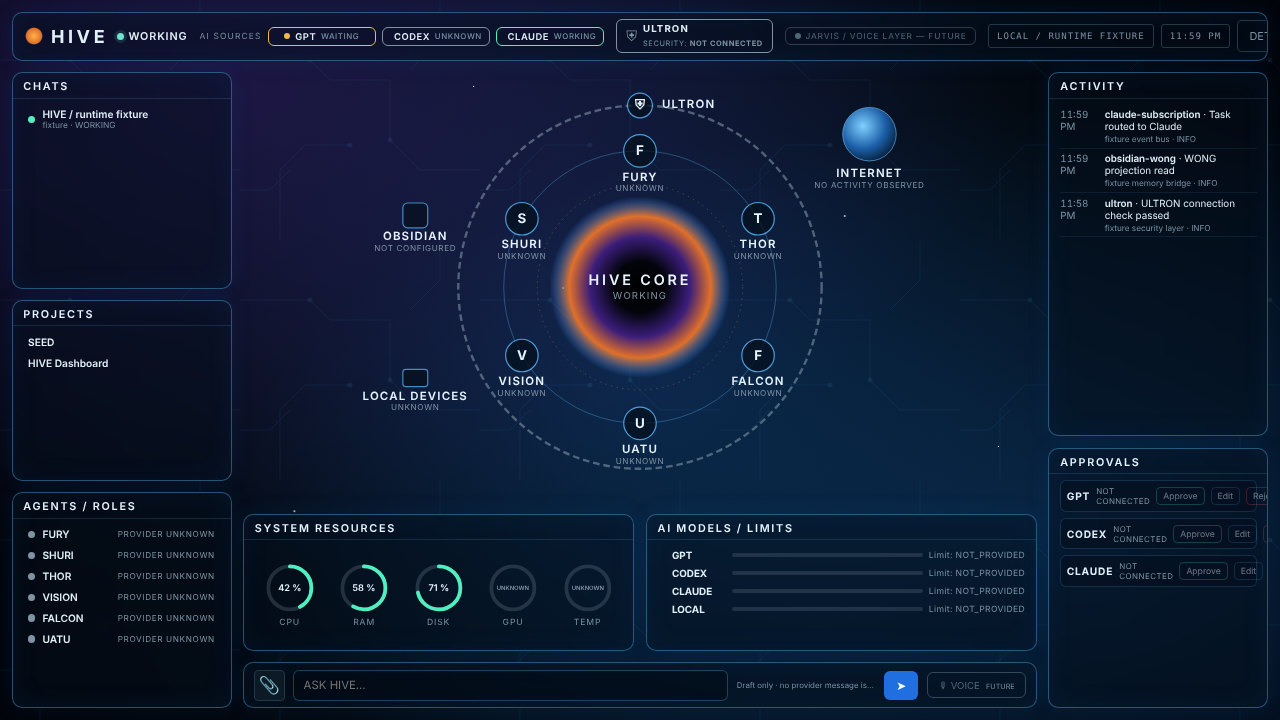
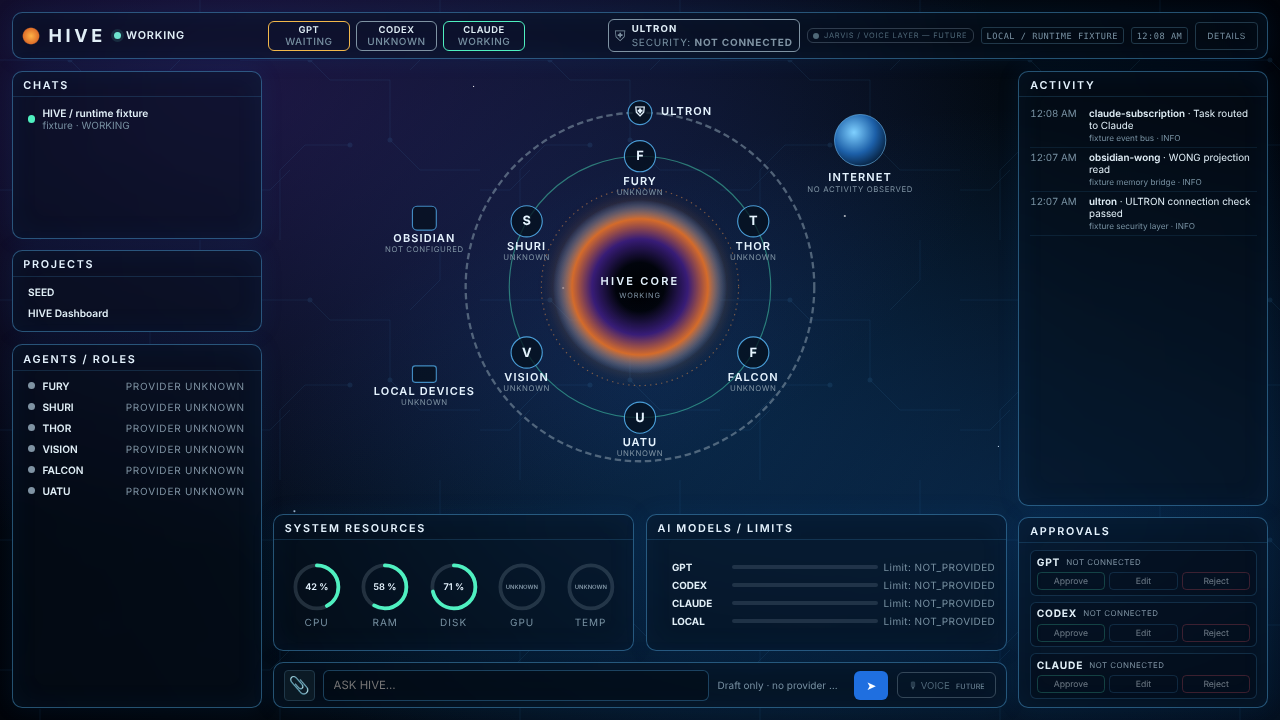
P0.1 review fixes: top bar/approvals/chips overflow, CORE size, ACCEPTANCE.md, stronger E2E
Claude-Session: https://claude.ai/code/session_01H3kenukuoJUFG5vRsMZSQa

diff --git a/app.js b/app.js
@@ -350,7 +350,7 @@ function renderShell(snapshot){
   if(pr) pr.innerHTML=projects.length?projects.slice(0,8).map(item=>`<div class="rail-row"><div class="grow"><strong>${esc(item.name||item.id)}</strong></div></div>`).join(''):'<div class="empty-state compact"><strong>NOT PROVIDED</strong><small>HIVE Core returned no project catalog.</small></div>';
   const roster=$('#agent-roster'); if(roster) roster.innerHTML=SHELL_ROLES.map(role=>`<div class="rail-row"><i class="dot"></i><div class="grow"><strong>${role}</strong></div><span class="state">PROVIDER UNKNOWN</span></div>`).join('');
   const act=$('#activity-rows'); if(act) act.innerHTML=(snapshot.events||[]).filter(e=>e&&e.timestamp).length?snapshot.events.filter(e=>e&&e.timestamp).slice(0,8).map(e=>`<div class="act-row"><time>${esc(isoTime(e.timestamp))}</time><div><b>${esc(e.component_id||'role n/a')}</b> · ${esc(e.title||e.kind||'event')}<br><small>${esc(e.source||'source unknown')} · ${esc(stateLabel(e.severity||'unknown'))}</small></div></div>`).join(''):'<div class="empty-state compact"><strong>Nothing observed</strong><small>Rows appear only from timestamped events.</small></div>';
-  const ap=$('#approval-rows'); if(ap) ap.innerHTML=SHELL_PROVIDERS.map(([,label])=>`<div class="approval-row"><strong>${label}</strong><span class="ap-state">NOT CONNECTED</span><button class="ap-btn approve" disabled>Approve</button><button class="ap-btn" disabled>Edit</button><button class="ap-btn reject" disabled>Reject</button></div>`).join('');
+  const ap=$('#approval-rows'); if(ap) ap.innerHTML=SHELL_PROVIDERS.map(([,label])=>`<div class="approval-row"><strong>${label}</strong><span class="ap-state">NOT CONNECTED</span><span class="ap-actions"><button class="ap-btn approve" disabled>Approve</button><button class="ap-btn" disabled>Edit</button><button class="ap-btn reject" disabled>Reject</button></span></div>`).join('');
   const g=$('#resource-gauges'); if(g) g.innerHTML=gaugeMarkup('CPU',snapshot.metrics.cpu)+gaugeMarkup('RAM',snapshot.metrics.memory)+gaugeMarkup('DISK',snapshot.metrics.disk)+gaugeMarkup('GPU',null)+gaugeMarkup('TEMP',null);
   const lim=$('#limit-rows'); if(lim) lim.innerHTML=[...SHELL_PROVIDERS.map(([k,l])=>[k,l]),['local','LOCAL']].map(([k,l])=>{ const o=k==='local'?{tone:'unknown'}:providerObservation(snapshot,k); return `<div class="limit-row"><i class="dot ${o.tone}"></i><strong>${l}</strong><div class="bar"></div><span class="v">Limit: NOT_PROVIDED</span></div>`; }).join('');
 }

diff --git a/styles.css b/styles.css
@@ -102,3 +102,24 @@ body{overflow:hidden;min-height:0;height:100vh;background:radial-gradient(ellips
 .console-close{position:fixed;top:calc(var(--gap) + 10px);right:calc(var(--gap) + 16px);z-index:61}
 .console-overlay .app-shell{min-height:100%}.console-overlay .sidebar{min-height:100%}
 @media (prefers-reduced-motion:reduce){*{animation:none!important;transition:none!important}}
+
+/* ---- P0.1 review fixes (UX review + own overflow check at 1280x720) ---- */
+:root{--rail:clamp(250px,17vw,520px)}
+.topbar-hive{gap:.6rem;padding:.55rem .8rem}
+.source-chip{width:8rem}
+@media (max-width:1500px){.tb-label{display:none}.source-chip{width:8rem;padding:.25rem .3rem}.tb-ultron{padding:.2rem .5rem}.tb-jarvis{font-size:.62rem;padding:.2rem .45rem}.topbar-hive .top-tag{font-size:.62rem;padding:.2rem .4rem}}
+.topbar-hive>.tb-actions{flex:0 0 auto}
+.tb-label,.rail-row small,.rail-row .state,.gauge label,.limit-row span.v,.ap-state,.composer-status,.source-chip em,.tb-ultron small{font-size:max(.7rem,10px)}
+.act-row{grid-template-columns:4.4rem 1fr}.act-row time{white-space:nowrap}
+.approval-row{flex-wrap:wrap;gap:.35rem .5rem}.approval-row strong{width:auto;flex:0 0 auto}.approval-row .ap-state{flex:1 1 0;min-width:0;overflow:hidden;text-overflow:ellipsis;white-space:nowrap}
+.ap-actions{flex:1 0 100%;display:flex;gap:.35rem}.ap-actions .ap-btn{flex:1 1 0;min-width:0}
+.rail>.hive-panel{flex:0 1 auto}#panel-chats,#panel-activity{flex:1 1 0}
+.res-row .hive-panel{height:clamp(120px,19vh,260px)}
+.res-row .hp-body{display:flex;flex-direction:column;justify-content:center}.res-row .hp-body.gauges{flex-direction:row;justify-content:space-around}
+.core-stage{padding:.4rem 0}
+.core-vortex{opacity:.55;filter:drop-shadow(0 0 22px rgba(255,150,60,.55))}.core-stage[data-tone="ok"] .core-vortex{opacity:.95}
+.core-ring{stroke:rgba(79,240,192,.45);stroke-width:2.5}.ring-inner{stroke:rgba(255,160,70,.45)}
+.core-center-title{font-size:24px}.core-center-state{font-size:16px}
+.source-chip{flex-direction:column;gap:0;line-height:1.2;width:6.8rem;padding:.2rem .4rem}.source-chip i{display:none}
+@media (max-width:1500px){.source-chip{width:6.8rem;padding:.2rem .3rem}}
+.topbar-hive .top-tag,.topbar-hive .tb-actions .button{font-size:.72rem;letter-spacing:.06em}

diff --git a/docs/hive/ACCEPTANCE.md b/docs/hive/ACCEPTANCE.md
@@ -1,0 +1,135 @@
+# HIVE Dashboard - Acceptance Checklist
+
+Source: `HIVE_DASHBOARD_CLAUDE_HANDOFF.md` section 15 (items 1-16), with derived sub-items from sections 5-12 and 14.
+Branch: `hive/dashboard-v1`. Status values: `NOT_RUN`, `PASS_AUTOMATED`, `PASS_MANUAL`, `FAIL`.
+Planned tests (not yet existing) are marked `(planned)`. A status of PASS_AUTOMATED is used only where the named file's assertions actually cover the requirement.
+
+Existing test files: `tests/e2e/shell.e2e.mjs`, `tests/ui_contract.test.mjs`, `tests/test_server.py`, `tests/test_fixture_server.py`.
+
+## A. Spec section 15 items
+
+| ID | Requirement | Phase | Verification | Status |
+|----|-------------|-------|--------------|--------|
+| S15.1 | Dashboard visually matches the supplied reference direction (docs/assets/hive-dashboard-target.png, hive-core-reference.png) | P0.1 | MANUAL: compare 1920x1080 screenshot (docs/hive/screenshots/shell-1920x1080.png) with reference on the Windows PC; e2e takes screenshots but asserts no visual match | NOT_RUN |
+| S15.2 | Panels have visible empty space and never touch | P0.1 | tests/e2e/shell.e2e.mjs `P0.1 shell @ WxH` (pairwise overlap + min gutter + edge margin, 10 boxes) | PASS_AUTOMATED |
+| S15.3 | Layout adapts at 1280x720, 1920x1080, 2560x1440 (no page scroll) | P0.1 | tests/e2e/shell.e2e.mjs (3 resolution tests, scroll check) | PASS_AUTOMATED |
+| S15.4 | CORE remains centered and is the primary animation | P0.1/P0.2 | Centering: tests/e2e/shell.e2e.mjs (horizontal +-2px only). "Primary animation": tests/core_visual.e2e.mjs (planned) + MANUAL | NOT_RUN |
+| S15.5 | ULTRON has a static agent-style icon and a state-changing security ring | P0.2 | tests/core_visual.e2e.mjs (planned): icon node present, ring class changes per state; MANUAL visual check | NOT_RUN |
+| S15.6 | GPT and Claude (and Codex) have equal architectural and visual weight | P0.1/P0.2 | Chip width equality: tests/e2e/shell.e2e.mjs (covers top-bar chips only); node size/provider parity: tests/core_state.test.mjs (planned) | NOT_RUN |
+| S15.7 | Agents move only in response to logical interactions or observed state transitions | P0.2 | tests/core_movement.test.mjs (planned) | NOT_RUN |
+| S15.8 | Ambient outer animation is sparse, slow, visually subordinate | P0.2 | tests/core_visual.e2e.mjs (planned: ambient opacity/duration bounds, distinct class from event pulses) + MANUAL | NOT_RUN |
+| S15.9 | No activity invented when telemetry is missing (UNKNOWN, never WORKING) | P0.2 | tests/core_state.test.mjs (planned); shell.e2e.mjs covers only ULTRON "NOT CONNECTED" and NOT_PROVIDED limits | NOT_RUN |
+| S15.10 | Chat attachments and send states work honestly | P0.3 | tests/chat.test.mjs + tests/e2e/chat.e2e.mjs (planned) | NOT_RUN |
+| S15.11 | Activity and Approvals readable and sanitized | P0.3 | tests/activity_sanitize.test.mjs (planned) + MANUAL readability at 1280x720 | NOT_RUN |
+| S15.12 | Hardware and model values show UNKNOWN when unavailable | P1.1 | tests/test_server.py (system metrics, planned cases); shell.e2e.mjs asserts NOT_PROVIDED in limits panel only (not hardware) | NOT_RUN |
+| S15.13 | Obsidian/WONG authority boundaries preserved (no vault path guess, no write unless connector enabled) | P1.2 | tests/test_server.py (planned cases) + tests/ui_contract.test.mjs | NOT_RUN |
+| S15.14 | EVOLVE changes only an isolated branch and produces evidence (diff, test result, backup) | P1.3 | tests/test_evolve.py (planned) | NOT_RUN |
+| S15.15 | Existing tests remain passing or regressions are reported | All | Run `node --test tests/ui_contract.test.mjs`, `python -m pytest tests/test_server.py tests/test_fixture_server.py`, `node --test tests/e2e/shell.e2e.mjs`; record exact results | NOT_RUN |
+| S15.16 | No production, WONG, ROCKET, deployment, or release state modified | All | MANUAL: `git diff --stat` shows only dashboard checkout files; tests/test_fixture_server.py (fixture server has no write routes) | NOT_RUN |
+
+## B. Derived sub-items
+
+### P0.1 Visual shell
+
+| ID | Requirement | Phase | Verification | Status |
+|----|-------------|-------|--------------|--------|
+| P0.1.1 | At 1280x720 no panel overlap, gutters >=10px, edge margin >=10px | P0.1 | tests/e2e/shell.e2e.mjs `P0.1 shell @ 1280x720` | PASS_AUTOMATED |
+| P0.1.2 | At 1920x1080 no overlap, gutters >=16px | P0.1 | tests/e2e/shell.e2e.mjs `P0.1 shell @ 1920x1080` | PASS_AUTOMATED |
+| P0.1.3 | At 2560x1440 no overlap, gutters >=20px | P0.1 | tests/e2e/shell.e2e.mjs `P0.1 shell @ 2560x1440` | PASS_AUTOMATED |
+| P0.1.4 | CORE art centered within +-2px at all three resolutions | P0.1 | tests/e2e/shell.e2e.mjs (horizontal axis only; vertical not asserted) | PASS_AUTOMATED |
+| P0.1.5 | No visible DONE, LOGS, or version text | P0.1 | tests/e2e/shell.e2e.mjs (innerText regex) | PASS_AUTOMATED |
+| P0.1.6 | Required shell labels present (HIVE, GPT, CODEX, CLAUDE, ULTRON, JARVIS / VOICE LAYER, CHATS, PROJECTS, AGENTS / ROLES, ACTIVITY, APPROVALS, SYSTEM RESOURCES, AI MODELS / LIMITS, VOICE) | P0.1 | tests/e2e/shell.e2e.mjs asserts the listed labels (PROJECTS and ULTRON included); ASK HIVE input, attach and send buttons are NOT asserted | NOT_RUN |
+| P0.1.7 | Panel material rgba(4,16,29,0.46), blur(12px), border rgba(90,190,255,0.40) | P0.1 | tests/e2e/shell.e2e.mjs `panel material...` (checks #panel-chats only) | PASS_AUTOMATED |
+| P0.1.8 | Shell has no page errors on load | P0.1 | tests/e2e/shell.e2e.mjs (pageerror collection) | PASS_AUTOMATED |
+| P0.1.9 | VOICE button disabled; JARVIS indicator inactive; no waveform | P0.1 | tests/e2e/shell.e2e.mjs (disabled + `.inactive`; no-waveform not asserted) | NOT_RUN |
+| P0.1.10 | Data environment tag (FIXTURE/UNVERIFIED/LOCAL) always visible; demo mode labelled | P0.1 | tests/e2e/shell.e2e.mjs | PASS_AUTOMATED |
+| P0.1.11 | Legacy views reachable via details console (open/Escape closes) | P0.1 | tests/e2e/shell.e2e.mjs | PASS_AUTOMATED |
+| P0.1.12 | No light theme, no phone/tablet layout | P0.1 | MANUAL: confirm dark at all sizes; no media queries below 1280 wide required | NOT_RUN |
+| P0.1.13 | Visual check on the Windows PC native monitor(s) at each resolution | P0.1 | MANUAL: open on Windows PC, confirm frosted glass shows circuits/stars behind cards, text contrast OK | NOT_RUN |
+
+Note on P0.1.6: the e2e asserts every listed label; the bottom ASK HIVE input, attachment and send buttons required by spec section 5 are not asserted, so the item stays NOT_RUN until a test covers them.
+
+### P0.2 Functional CORE
+
+| ID | Requirement | Phase | Verification | Status |
+|----|-------------|-------|--------------|--------|
+| P0.2.1 | Event normalization maps raw events to the section 9 contract (schema_version ... redacted_summary); malformed input rejected or marked UNKNOWN | P0.2 | tests/core_events.test.mjs (planned) | NOT_RUN |
+| P0.2.2 | Duplicate events (same event_id) are dropped | P0.2 | tests/core_events.test.mjs (planned) | NOT_RUN |
+| P0.2.3 | Stale/offline classification from last-observed time; silence yields UNKNOWN, never WORKING | P0.2 | tests/core_state.test.mjs (planned) | NOT_RUN |
+| P0.2.4 | State to visual-class mapping for all 8 CORE states (IDLE, WORKING, WAITING_APPROVAL, REVIEW, FAILED, SECURITY_BLOCKED, OFFLINE, UNKNOWN) | P0.2 | tests/core_state.test.mjs (planned) | NOT_RUN |
+| P0.2.5 | Agent movement: event -> target node -> return to home sector on completion | P0.2 | tests/core_movement.test.mjs (planned) | NOT_RUN |
+| P0.2.6 | Agent movement: return home on timeout | P0.2 | tests/core_movement.test.mjs (planned) | NOT_RUN |
+| P0.2.7 | No movement without an observed event (elapsed time alone never moves agents) | P0.2 | tests/core_movement.test.mjs (planned) | NOT_RUN |
+| P0.2.8 | Concurrent movement and pulse counts are capped; agents never disappear in transit | P0.2 | tests/core_movement.test.mjs (planned) | NOT_RUN |
+| P0.2.9 | Event-linked pulses require an observed event and correlation_id; ambient motion is visually distinct | P0.2 | tests/core_events.test.mjs + tests/core_visual.e2e.mjs (planned) | NOT_RUN |
+| P0.2.10 | SSE is the primary live transport when a stream endpoint exists | P0.2 | tests/core_transport.test.mjs (planned, with mock EventSource) | NOT_RUN |
+| P0.2.11 | Polling fallback has in-flight guard (no overlapping requests) | P0.2 | tests/core_transport.test.mjs (planned) | NOT_RUN |
+| P0.2.12 | Polling fallback has request timeout | P0.2 | tests/core_transport.test.mjs (planned) | NOT_RUN |
+| P0.2.13 | Reconnect with exponential backoff (bounded max) | P0.2 | tests/core_transport.test.mjs (planned) | NOT_RUN |
+| P0.2.14 | Event buffer is bounded (oldest evicted) | P0.2 | tests/core_transport.test.mjs (planned) | NOT_RUN |
+| P0.2.15 | prefers-reduced-motion disables/minimizes CORE, ambient and movement animation | P0.2 | tests/e2e/reduced_motion.e2e.mjs (planned, `emulateMedia({reducedMotion:'reduce'})`) | NOT_RUN |
+| P0.2.16 | Internet planet active only on observed network event; Obsidian node visible; ULTRON between agent and Internet during external access | P0.2 | tests/core_movement.test.mjs + tests/core_visual.e2e.mjs (planned) | NOT_RUN |
+| P0.2.17 | Server exposes an event stream (SSE) or the UI documents "polling only" and runs on fallback | P0.2 | tests/test_server.py + tests/test_fixture_server.py (planned cases; currently no stream endpoint exists, see Contradictions) | NOT_RUN |
+| P0.2.18 | CORE animation observable in a real browser at 3 resolutions; no console errors | P0.2 | tests/core_visual.e2e.mjs (planned) + MANUAL on Windows PC | NOT_RUN |
+
+### P0.3 Chat, Activity, Approvals
+
+| ID | Requirement | Phase | Verification | Status |
+|----|-------------|-------|--------------|--------|
+| P0.3.1 | Attach one or more local files; chips shown before send; chips removable | P0.3 | tests/e2e/chat.e2e.mjs (planned) | NOT_RUN |
+| P0.3.2 | Enter sends; Shift+Enter inserts newline | P0.3 | tests/e2e/chat.e2e.mjs (planned) | NOT_RUN |
+| P0.3.3 | Send state QUEUED shown while pending | P0.3 | tests/chat.test.mjs (planned) | NOT_RUN |
+| P0.3.4 | SENT only after a real provider response; never on adapter-configured alone | P0.3 | tests/chat.test.mjs (planned) | NOT_RUN |
+| P0.3.5 | FAILED shown on provider error/timeout | P0.3 | tests/chat.test.mjs (planned) | NOT_RUN |
+| P0.3.6 | NOT_CONNECTED shown when no provider adapter connected; no fabricated replies | P0.3 | tests/chat.test.mjs (planned) | NOT_RUN |
+| P0.3.7 | VOICE remains a disabled future control | P0.3 | tests/e2e/shell.e2e.mjs (disabled asserted) | PASS_AUTOMATED |
+| P0.3.8 | Activity rows are `time / role / provider / action / state`, sanitized (no raw prompts, chain-of-thought, secrets, private logs) | P0.3 | tests/activity_sanitize.test.mjs (planned) | NOT_RUN |
+| P0.3.9 | Approvals show source-only rows GPT / CODEX / CLAUDE with Approve / Edit / Reject | P0.3 | tests/e2e/approvals.e2e.mjs (planned); shell.e2e.mjs only asserts buttons disabled in current state | NOT_RUN |
+| P0.3.10 | Approve without connector support shows local label "Approved locally, source not updated" | P0.3 | tests/e2e/approvals.e2e.mjs (planned) | NOT_RUN |
+| P0.3.11 | Edit/Reject act on source only when valid adapter/deep link exists; otherwise disabled or labelled local | P0.3 | tests/e2e/approvals.e2e.mjs (planned) | NOT_RUN |
+| P0.3.12 | Never claim an external source changed when only local state changed | P0.3 | tests/e2e/approvals.e2e.mjs (planned) | NOT_RUN |
+| P0.3.13 | Attachment path/size handling: no upload of unapproved paths; ULTRON file-attachment check hook | P0.3 | tests/chat.test.mjs (planned) | NOT_RUN |
+| P0.3.14 | End-to-end check with a real connected provider on the Windows PC (only if one is configured) | P0.3 | MANUAL: send one message, confirm SENT appears only after the provider reply; otherwise record NOT_CONNECTED as expected | NOT_RUN |
+
+### P1.1 System and provider data
+
+| ID | Requirement | Phase | Verification | Status |
+|----|-------------|-------|--------------|--------|
+| P1.1.1 | CPU/RAM/GPU/disk/free space/temperature shown only from OS-returned values; otherwise UNKNOWN | P1.1 | tests/test_server.py (planned) + tests/ui_contract.test.mjs | NOT_RUN |
+| P1.1.2 | External USB disk shown with size, free space, drive letter, R/W | P1.1 | tests/test_server.py (planned, mocked OS data) + MANUAL with a real USB disk on Windows PC | NOT_RUN |
+| P1.1.3 | Phone over MTP/PTP shown as "MTP, Storage metrics unavailable", never as a block disk | P1.1 | tests/test_server.py (planned) + MANUAL with a phone | NOT_RUN |
+| P1.1.4 | Model limits use only KNOWN/UNKNOWN/NOT_PROVIDED/ESTIMATED; no invented quotas | P1.1 | tests/e2e/shell.e2e.mjs (NOT_PROVIDED present in default state only) + tests/ui_contract.test.mjs (planned cases) | NOT_RUN |
+
+### P1.2 Profiles and shared context
+
+| ID | Requirement | Phase | Verification | Status |
+|----|-------------|-------|--------------|--------|
+| P1.2.1 | Role profile editable (display name, color, role, provider, model, capabilities) and persisted locally | P1.2 | tests/profiles.test.mjs (planned) | NOT_RUN |
+| P1.2.2 | Local avatar upload; stays local; type/size validated | P1.2 | tests/profiles.test.mjs (planned) | NOT_RUN |
+| P1.2.3 | Obsidian/WONG projection read-only; no guessed vault path; no write unless connector enabled and authorized | P1.2 | tests/test_server.py (planned) | NOT_RUN |
+| P1.2.4 | HIVE-local tasks do not propagate to GPT/Claude/Codex | P1.2 | tests/test_server.py (planned) | NOT_RUN |
+| P1.2.5 | Project-scoped context does not leak across projects | P1.2 | tests/profiles.test.mjs (planned) | NOT_RUN |
+
+### P1.3 ULTRON and EVOLVE
+
+| ID | Requirement | Phase | Verification | Status |
+|----|-------------|-------|--------------|--------|
+| P1.3.1 | ULTRON guard monitors external connections, provider adapters, attachments, tool permissions, path/sandbox violations, approvals, blocked actions (bounded MVP) | P1.3 | tests/test_ultron.py (planned) | NOT_RUN |
+| P1.3.2 | ULTRON ring: green/cyan permitted, amber attention, red blocked, gray offline/unknown | P1.3 | tests/core_state.test.mjs + tests/core_visual.e2e.mjs (planned) | NOT_RUN |
+| P1.3.3 | EVOLVE workflow OBSERVE to PROMOTION enforced in order; promotion requires USER APPROVAL | P1.3 | tests/test_evolve.py (planned) | NOT_RUN |
+| P1.3.4 | EVOLVE writes only on an isolated branch; backup created; diff and test evidence produced | P1.3 | tests/test_evolve.py (planned) | NOT_RUN |
+| P1.3.5 | EVOLVE never performs production changes, silent WONG changes, auto-promotion, or credential access | P1.3 | tests/test_evolve.py (planned negative tests) | NOT_RUN |
+
+## C. Contradictions / risks
+
+Each item was verified against `HIVE_DASHBOARD_CLAUDE_HANDOFF.md` (line numbers) and the repo.
+
+1. **ULTRON status vs no-invention rule.** Spec section 5 top bar (line 156) lists the literal `ULTRON SECURITY: ACTIVE`; section 2 (lines 35-36) forbids inventing status and requires UNKNOWN/NOT CONNECTED when unavailable. Current `index.html` renders `SECURITY: NOT CONNECTED`, and shell.e2e.mjs asserts `NOT CONNECTED`. Resolution: treat `ACTIVE` as a state shown only when observed (section 8 ring states). Also, section 5 global status (IDLE/WORKING/WAITING/ERROR/UNKNOWN) uses different names from section 6 CORE states (WAITING_APPROVAL, REVIEW, FAILED, SECURITY_BLOCKED, OFFLINE); mapping is unspecified.
+2. **Budget table vs model allocation.** Section 13 table sums to $100 with only a $9 "QA and reserve" line (9%); section 17 (lines 794-801) allots a separate 10% reserve plus 70-80% Sonnet, 10-20% Opus, 5-10% Haiku (maxima sum to 120%). Neither maps to the task-based table, and Opus/Haiku shares are not tied to any phase.
+3. **Codex role.** Section 2 (line 30) says Codex/GPT is an independent reviewer, not the primary implementer; section 7 (line 281) calls Codex a provider/worker, and sections 5, 9, 10 require Codex to be an equal-weight source indicator and approval row alongside GPT and Claude. "Equal visual weight" (S15.6) conflicts with a reviewer-only role if the UI is meant to reflect roles; the spec does not say which wins. Also GPT is grouped with Codex as reviewer in line 30 while section 7 demands GPT and Claude equal status.
+4. **SSE primary vs server reality.** Section 9 (line 425) says use SSE or an existing event stream as the primary transport. Grep of `server.py`, `fixture_server.py`, `app.js`, `index.html` finds no `EventSource`, `text/event-stream` or SSE route; the server serves snapshot polling only. The "or an existing event stream" clause is the only escape; P0.2 must either add a stream endpoint (server change not in the P0.2 scope text) or ship polling as the de facto primary.
+5. **Layout editor not scheduled or accepted.** Section 12 requires a bounded drag/resize layout editor with persistence, but it is absent from section 13's budget table, section 14's phases and section 15's acceptance criteria. This checklist has no item for it; decide whether it is in scope.
+6. **Section 14 vs user phases.** Section 14 defines P1.4 (QA and handoff) which this checklist omits by instruction; the spec's final report (lines 720-731) requires PASS/FAIL/NOT_RUN reporting that this file feeds.
+7. **Gutter ranges.** Section 12 gives 10-12px at 1280 and 16-20px at 1920; the gate here (10/16/20) and the e2e assert only minima, and use 20px at 2560 though section 12 gives no number for 2560+ ("expand negative space").
+8. **Approvals local fallback vs acceptance.** Section 10 allows marking a proposal "approved" locally; S15.16 and section 2 forbid claiming external change. The label "Approved locally, source not updated" is the only safeguard; it is not in the spec text and was set by the user's phase definition.
+9. **E2E coverage gap.** shell.e2e.mjs checks CORE centering horizontally only and uses `#hive-core-art`, not the full CORE composition; it cannot establish S15.1 (visual match) or S15.4 (primary animation).

diff --git a/BUDGET_LEDGER.md b/BUDGET_LEDGER.md
@@ -11,5 +11,5 @@ Rough effort estimates against the USD 100 allocation (dollar spend is not obser
 ## P0.1 Visual shell (allocation $10)
 - Files: index.html (new fixed shell; legacy views moved unchanged into a hidden details console), styles.css (cockpit section appended), app.js (renderShell, console wiring), tests/e2e/shell.e2e.mjs, docs/hive/screenshots/shell-*.png, BUDGET_LEDGER.md.
 - Tests: Python 225/225 OK; UI contract 20/20 OK; Playwright E2E tests/e2e/shell.e2e.mjs 7/7 (1280x720, 1920x1080, 2560x1440: no overlaps, gutters >= 10/16/20 px, CORE centre within 2 px, no DONE/LOGS/version text, panel material, equal provider chips, JARVIS/VOICE inactive, env tag).
-- Subagents: 0 (PM ACCEPTANCE.md and UX review not yet run).
-- Effort: ~$6 of $10.
+- Review + fixes (follow-up commit): PM subagent wrote docs/hive/ACCEPTANCE.md; UX subagent reviewed 1280/1920/2560 screenshots against the target. Verdict: layout skeleton matches, NOT visual parity (no galaxy vortex art, connector lines, list icons, top task-card row, Layout card; rails are sparsely populated because no data is invented). Fixed real defects found: top bar clipped DETAILS at 1280, approval buttons clipped, chips overflowed, tiny top-bar tags at 2560. My first fix attempt regressed layout (gauges stacked, CORE collapsed) and the E2E did not catch it; E2E now also asserts CORE height >= 40% of viewport, no content outside its panel, no overflow/collision in chips/approval rows/limits.
+- Subagents: 2 (PM, UX). Effort: ~$8 of $10.
